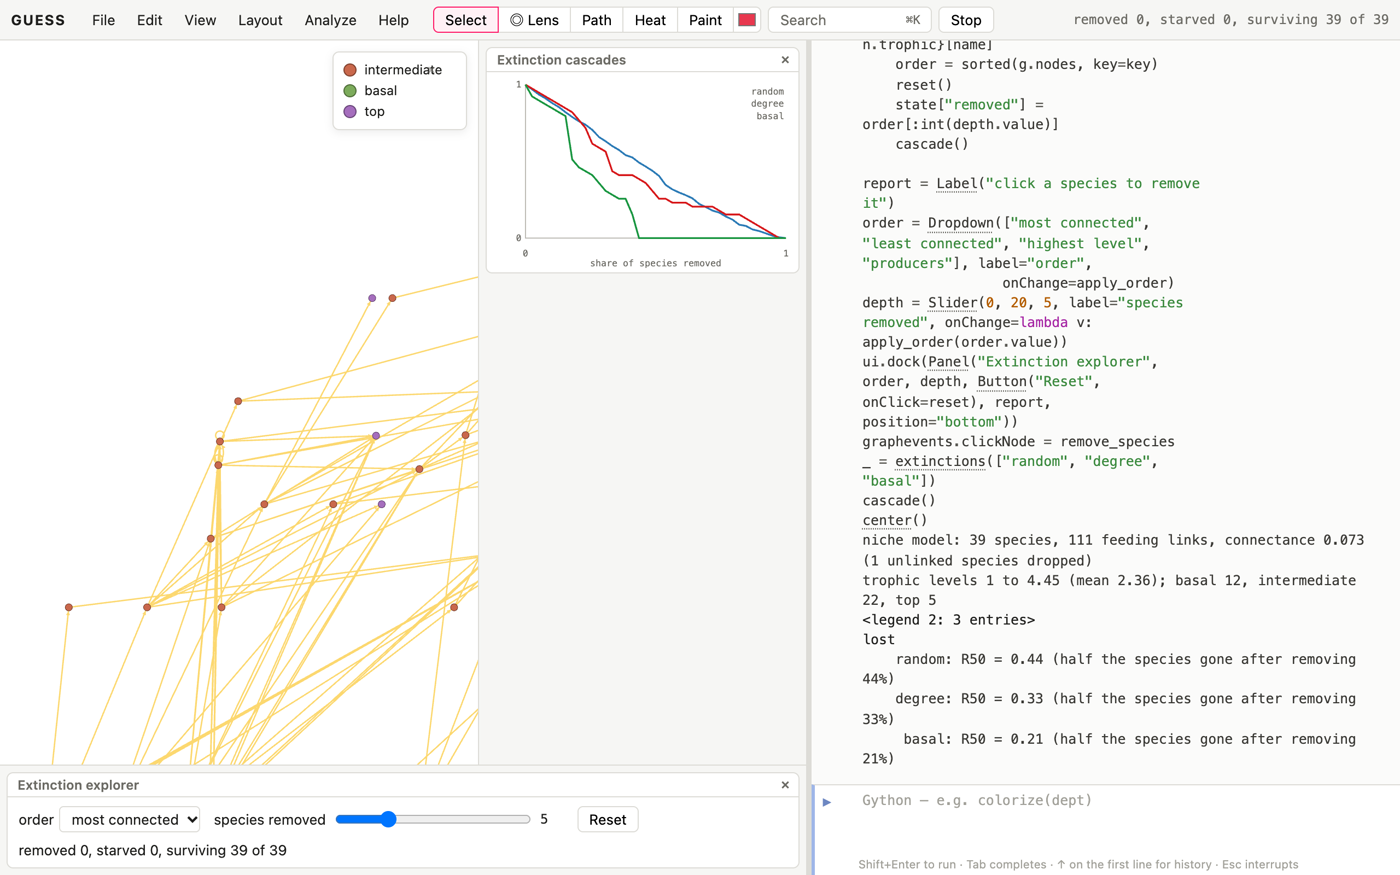
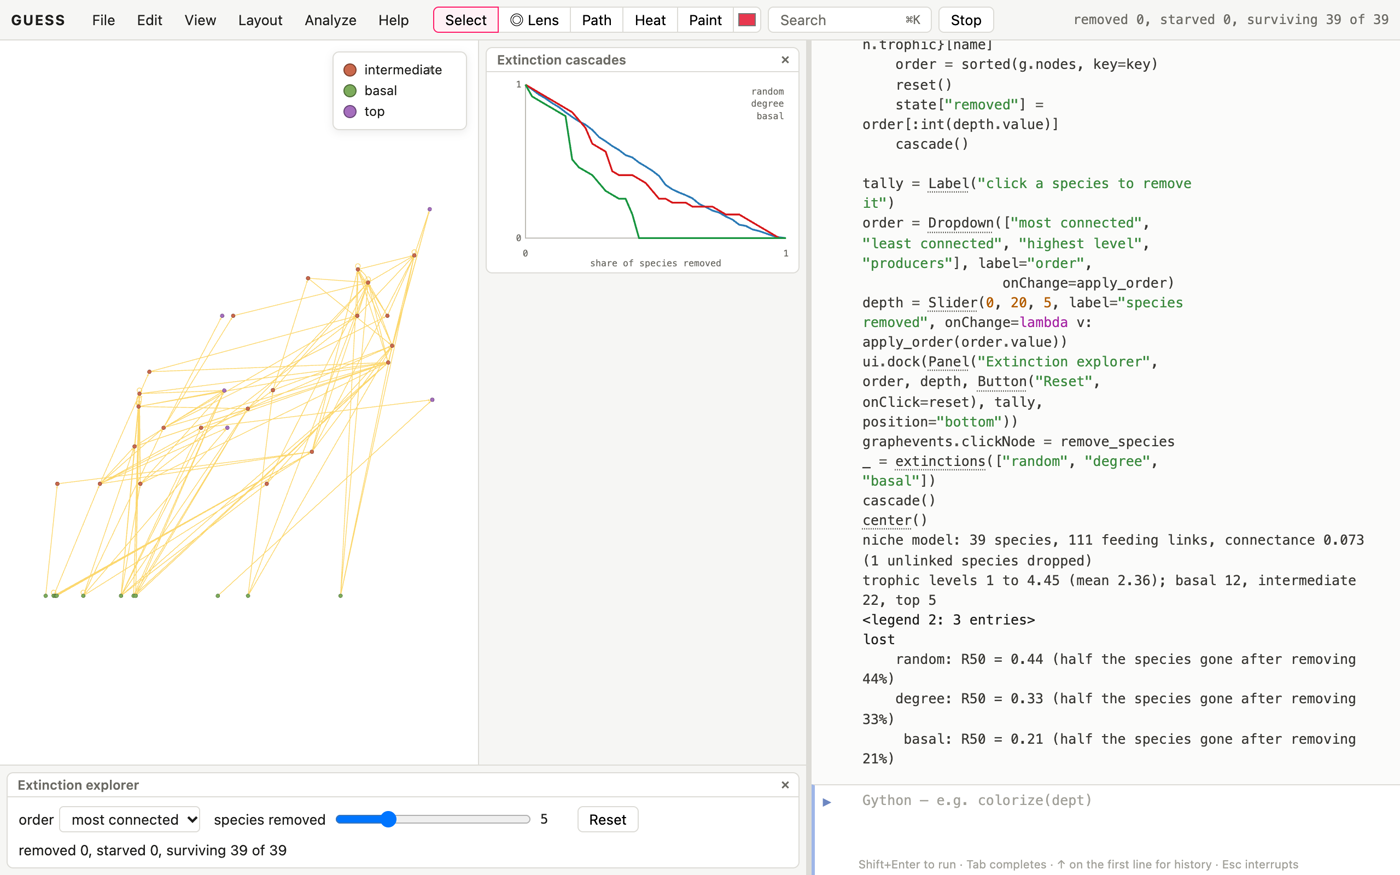
epid

diff --git a/py/tests/test_epidemic.py b/py/tests/test_epidemic.py
@@ -1,0 +1,101 @@
+import math
+
+from guess import Session
+from guess.epidemic import nb_dispersion
+from tests.test_gython import Recorder
+
+
+def _s():
+    rec = Recorder()
+    s = Session(rec)
+    s.rec = rec
+    return s
+
+
+def _path(s, n):
+    for i in range(n - 1):
+        s.run(f"addEdge(addNode('p{i}'), addNode('p{i + 1}'))")
+
+
+def test_spread_immune_blocks_the_path():
+    s = _s()
+    _path(s, 6)
+    assert s.run("spread([p0], 'SI', beta=1.0, immune=[p3])"), s.rec.of("error")
+    g = s.graph
+    assert [g.getNodeByName(f"p{i}").infected_at for i in range(6)] == [0, 1, 2, -1, -1, -1]
+    assert g.getNodeByName("p3").state == "V"
+
+
+def test_spread_weight_scales_the_chance():
+    s = _s()
+    _path(s, 3)
+    s.run("g.edges.weight = 0")
+    assert s.run("spread([p0], 'SI', beta=0.9, weight=weight, steps=20)"), s.rec.of("error")
+    assert s.graph.getNodeByName("p1").infected_at == -1      # weight 0: no chance at all
+    s.run("g.edges.weight = 50")
+    assert s.run("spread([p0], 'SI', beta=0.1, weight=weight)")
+    assert s.graph.getNodeByName("p2").infected_at == 2       # 1 - 0.9**50: near certain
+
+
+def test_outbreaks_sizes_and_risk():
+    s = _s()
+    _path(s, 5)
+    assert s.run("__r = outbreaks(20, beta=1.0, gamma=0.0, model='SI', show=False)"), s.rec.of("error")
+    r = s.ns["__r"]
+    assert list(r) == [5] * 20 and r.mean == 5 and r.large == 1.0
+    assert all(n.risk == 1.0 for n in s.graph.nodes)
+    # immune node in the middle splits the path; seeds never start on it
+    assert s.run("__r = outbreaks(50, beta=1.0, model='SI', immune=[p2], show=False)")
+    r = s.ns["__r"]
+    assert set(r) == {2}
+    assert s.graph.getNodeByName("p2").risk == 0.0
+    assert s.run("__r = outbreaks(5, seeds=[p0], beta=1.0, model='SI', immune=[p2], show=False)")
+    assert set(s.ns["__r"]) == {2}
+    assert "outbreaks:" in repr(s.ns["__r"])
+    assert not s.run("outbreaks(5, model='zombie')")
+
+
+def test_offspring_counts_and_dispersion():
+    s = _s()
+    s.run("for i in range(10): addNode(f'c{i}')")
+    for t in range(1, 6):                      # c0 infects five, c1 infects one, the rest no one
+        s.run(f"addDirectedEdge(c0, c{t})")
+    s.run("addDirectedEdge(c1, c6)")
+    assert s.run("__o = offspring(show=False)"), s.rec.of("error")
+    o = s.ns["__o"]
+    assert o.R == 0.6 and o.zero == 0.8
+    assert o.top20 == 1.0                      # c0 and c1 caused all six
+    assert s.graph.getNodeByName("c0").offspring == 5
+    assert o.k < 1                             # very uneven
+    assert s.run("__o = offspring(outdegree > 0, show=False)")
+    assert s.ns["__o"].R == 3.0
+    s2 = _s()
+    _path(s2, 3)
+    assert not s2.run("offspring()")           # undirected: not a transmission tree
+
+
+def test_nb_dispersion():
+    assert nb_dispersion([0, 0, 0]) == float("inf")
+    assert nb_dispersion([2, 2, 2, 2]) == float("inf")           # no extra variance: Poisson-like
+    assert nb_dispersion([0] * 18 + [10, 10]) < 0.3
+
+
+def test_effective_distance():
+    s = _s()
+    s.run("addNodeField('dummy', INTEGER, 0)")
+    s.run("a = addNode('a'); b = addNode('b'); c = addNode('c'); d = addNode('d')")
+    s.run("e1 = addEdge(a, b); e1.weight = 3")
+    s.run("e2 = addEdge(a, c); e2.weight = 1")
+    s.run("e3 = addEdge(b, d); e3.weight = 1")
+    assert s.run("effectiveDistance(a)"), s.rec.of("error")
+    g = s.graph
+    get = g.getNodeByName
+    assert get("a").eff_distance == 0
+    assert math.isclose(get("b").eff_distance, round(1 - math.log(0.75), 4))
+    assert math.isclose(get("c").eff_distance, round(1 - math.log(0.25), 4))
+    # b sends 3/4 of its traffic back to a, 1/4 to d
+    assert math.isclose(get("d").eff_distance, round(1 - math.log(0.75) + 1 - math.log(0.25), 4), abs_tol=1e-3)
+    assert sum(1 for e in g.edges if e.eff_tree) == 3
+    s.run("addNode('lonely')")
+    assert s.run("effectiveDistance(a)")
+    assert get("lonely").eff_distance is None
